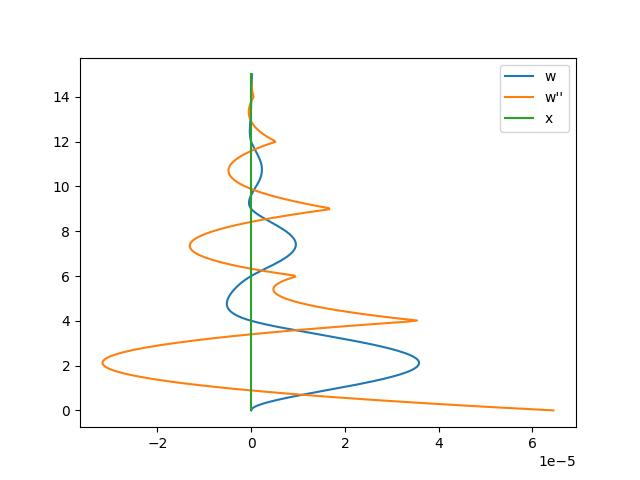
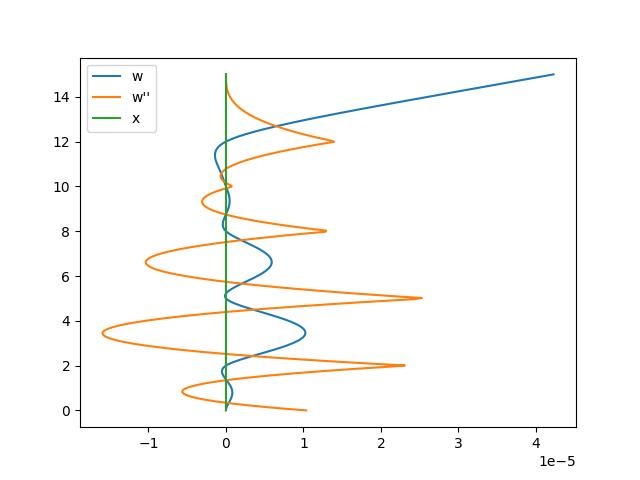
1. adding angle to our calculations 2. monte carlo fix

diff --git a/ground_anchoring_controller/frontend/src/components/Table1d.js b/ground_anchoring_controller/frontend/src/components/Table1d.js
@@ -12,6 +12,7 @@ let highMoment=0, alpha =0.5, beta = 1.0 , gamma=1.0;
 const Table1d = (acnhors_data) => {
     const height2 = localStorage.getItem("height");
     const [quality,setQuality] = useState(0);
+    const [moment,setMoment] = useState(0);
     let n = localStorage.getItem("numbersOfAnchors");
     const label = { inputProps: { 'aria-label': 'Switch demo' } };
     const [switchButton,setSwitchButton] = useState(true);
@@ -42,6 +43,7 @@ const Table1d = (acnhors_data) => {
       .then((response) => response.json())
       .then((data) => {
           highMoment = Math.abs(data);
+          setMoment(highMoment)
           calcQulaity();
           fetchImage();
       });
@@ -194,7 +196,7 @@ const Table1d = (acnhors_data) => {
               {/* <h4 style={{color:"white"}}>Quality formula </h4> */}
               <h4 style={{color:"white"}}>Quality : α * e<sup style={{color:"white"}}>-β*n</sup>+(1-α)* e<sup style={{color:"white"}}>-γ*m</sup> </h4>
               <h6 style={{paddingTop:"10px",color:"white"}}>n : number of anchors</h6>
-              <h6 style={{color:"white"}}>m : the highest moment</h6>  
+              <h6 style={{color:"white"}}>m : the highest moment - {moment}</h6>  
                   <InputGroup className="mb-3" style={{paddingTop:"10px",width:"200px"}}>
                       <InputGroup.Text id="basic-addon2">α :</InputGroup.Text>
                       <Form.Control  placeholder="0.5"  aria-label="numbers" aria-describedby="basic-addon1" onChange={handleChangeA} />

diff --git a/ground_anchoring_controller/api/euller_beam.py b/ground_anchoring_controller/api/euller_beam.py
@@ -1,17 +1,19 @@
 from __future__ import division  #to enable normal floating division
 import numpy as np
+import math
 import matplotlib.pyplot as plt
 from scipy.optimize import curve_fit
 
 class clBeam():
-	def __init__(self,h):
+	def __init__(self, h, deg):
 		# Beam parameters
 		# Exact solution, E*Iy = const, y1 = y', y0 = y, 
 		#w = 10  #beam cross sec width (m) - not in use
 		self.h = h   # height (m)
+		self.deg = deg   # height (m)
 		self.I = 104   #cross sec moment of inertia (mm^4)
 		self.E = 30   #steel elast modul (N/mm^2)
-		self.F = 9.8*1000   #point load (N)
+		self.F = 9.8*1000*math.sin(math.radians(deg))  #point load (N)
 		self.E_Ic = (self.I * self.E)*(1000**2)
 		
 	def w(self, x, c_1, c_2, c_3, c_4):
@@ -167,11 +169,10 @@ class clBeam():
 						vv_A[u][k0+k+4] = -self.aa2(x,k)
 					v_b[u] = 0
 		
-		print(str(v_b))
-		print(str(vv_A))
+
 		vc = np.linalg.solve(vv_A, v_b)
-		print(str(vc))
 		return vc
+
 	def nn_make(self,v_x_anchor):
 		self.bTheLastAnchor_h=False
 		n = len(v_x_anchor)
@@ -230,46 +231,33 @@ class clBeam():
 # plt.show()
 
 
-def start_euller_beam(h,anchors):
-    print("ANDHORS : ",anchors ,"okkkkk")
+def start_euller_beam(h, deg, anchors, save_plot=True):
     anchors.sort()
-    for acnhor in anchors:
-        print(acnhor)
-    Beam=clBeam(h)
+    Beam=clBeam(h, deg)
     x_data,y_data,y2_data=Beam.xy_get(anchors)
-    max1 = find_the_high_moment(h,y2_data)
-    min1 = find_the_low_moment(h,y2_data)
-    plt.close()
-    plt.plot(y_data,x_data, label = "w")
-    plt.plot(y2_data,x_data, label = "w''")
-    plt.plot([0,0],[0,h], label = "x")
-    plt.legend()
-    
-    #plt.show()
-    plt.savefig("plot.jpg")
+    max1 = find_the_high_moment(y2_data)
+    print(deg)
+    if save_plot:
+        plt.close()
+        plt.plot(y_data,x_data, label = "w")
+        plt.plot(y2_data,x_data, label = "w''")
+        plt.plot([0,0],[0,h], label = "x")
+        plt.legend()
+        
+        #plt.show()
+        plt.savefig("plot.jpg")
+
     return max1
     
-def find_the_high_moment(h,y2_data):
+def find_the_high_moment(y2_data):
     max1 = y2_data[0]
-    index = 0
-    for i in range(1,len(y2_data)):
-        if (abs(y2_data[i]) > max1):
-            max1 = abs(y2_data[i])
-            index = i
-    index = round((index/300)*h)
-    print(f'Index of the maximum value is : {index}')
+    
+    for moment in y2_data:
+        if abs(moment) > max1:
+            max1 = abs(moment)
+
     return max1
     
-def find_the_low_moment(h,y2_data):
-    min1 = y2_data[0]
-    index = 0
-    for i in range(1,len(y2_data)):
-        if y2_data[i] < min1:
-            min1 = y2_data[i]
-            index = i
-    index = round((index/300)*h)
-    print(f'Index of the minimum value is : {index}')
-    return min1
     
 
 # start_euller_beam(h=15 ,anchors = [2,4,6,9,14] )

diff --git a/ground_anchoring_controller/api/monteCarlo1d.py b/ground_anchoring_controller/api/monteCarlo1d.py
@@ -9,45 +9,42 @@ from .wallPressure1d import *
 import random
 
 # Creating Roll Anchor Function
-def roll_dice (height ,anchors_1 ):
-    #print( height , width)
-    
+def roll_dice (height ,anchors_1 ):    
     x = 0
     y = random.randint(1, height-1)
 
     # Determining if the anchor is exist
     if(len(anchors_1) > 0):
         for anchor in anchors_1:
-            if(anchor['x'] == x and anchor['y'] == y):
+            if(anchor['x'] == 0 and anchor['y'] == y):
                 return False ,0,0
     return True ,x ,y
 
 
-def createAncorsWithMonteCarlo1d(height ,max_num_of_anchors):
+def createAncorsWithMonteCarlo1d(height, deg, max_num_of_anchors):
     # Inputs & Tracking
     num_simulations = 1000
     anchors = []
-    quality_1 = 0
+    min_moment = 0
     # For loop to run for the number of simulations desired
     for i in range(num_simulations):
         anchors_1 = []
-        num_rolls = [0]
         num_anchor = 0
+
         # Run until the computer has rolled "max_num_of_anchors" times
-        while num_rolls[-1] < max_num_of_anchors:
-            
+        while len(anchors_1) < max_num_of_anchors:
+
             new_anchor,x,y = roll_dice(height ,anchors_1)         
             # Result if the anchors is not exist 
             if new_anchor:
                 anchors_1.append({'id' : num_anchor+1 , 'x' : x , 'y' : y})
                 num_anchor += 1
-                    
-            num_rolls.append(num_rolls[-1] + 1)
 
         # if this simulation give us better quality than take it
-        quality_2 = quality1d(height ,anchors_1)
-        if (quality_2 > quality_1):
-            quality_1 = quality_2 
+        moment = quality1d(height, deg, anchors_1)
+
+        if moment < min_moment or not len(anchors):
+            min_moment = moment 
             anchors = anchors_1.copy()
-            
+
     return anchors 

diff --git a/ground_anchoring_controller/api/wallPressure1d.py b/ground_anchoring_controller/api/wallPressure1d.py
@@ -1,6 +1,7 @@
 from numpy import * 
 from copy import deepcopy
-
+from .euller_beam import *
+# from ground_anchoring_controller.api.euller_beam import *
 
 # presure formula=> P = phg
 p= 997   # water mass density = 997 kg/m³
@@ -67,43 +68,18 @@ def create_best_anchors_for_wall_presure1d(height ):
         y1-=2
         id+=1   
     return anchors
-    
 
 # Done !
 def covert_matrix_presure_to_number1d(wall_presure):
     return sum(wall_presure)
- 
-    
-# Done !
-'''
-    This function take ( p1 =the maxinum presure ,p2 = the minumum presure ,p3 = the current presure) 
-    and calculate the quality between them in this way =>
-    quality = (p1-p3)/(p1-p2)
-    Inputs  => (p1 : number) , (p2 : number) , (p3 : number)
-    Output  => (quality : number)
-'''
-def calculate_quality1d(p1 , p2 , p3):
-    quality = 1- ((p3-p2)/(p1-p2))
-    return quality
-    
 
-# Done !
-def quality1d (height,anchors):
-    # 1
-    #print("1111")
-    p1 = create_mat_wall_presure1d(height)   
-    p1_sum = covert_matrix_presure_to_number1d(p1)
-    
-    
-    # 2
-    #print("2222")
-    best_places_for_anchors = create_best_anchors_for_wall_presure1d(height )
-    p2 = calculate_mat_wall_presure1d(height , deepcopy(p1) ,best_places_for_anchors)
-    p2_sum = covert_matrix_presure_to_number1d(p2)
-    # 3
-    #print("3333")
-    p3 = calculate_mat_wall_presure1d(height, p1 ,anchors)
-    p3_sum = covert_matrix_presure_to_number1d(p3)
-    
-    return calculate_quality1d(p1_sum ,p2_sum ,p3_sum)
+
+def quality1d (height, deg, anchors):
+    anchors_x =[]
+    for anchor in anchors:
+        anchors_x.append(anchor['y'])
+
+    res = start_euller_beam(height, deg, anchors_x, save_plot=False)  
+
+    return res
     

diff --git a/ground_anchoring_controller/api/views.py b/ground_anchoring_controller/api/views.py
@@ -21,6 +21,7 @@ optimizationType = ''
 dimensionalType = ''
 strategyType = ''
 height1=0
+angle1=90
 width1=0
 numberOfAnchors1=0
 quality1=0
@@ -58,10 +59,11 @@ class CreatWallView(APIView):
             width = serializer.data['width']
             angle = serializer.data['angle']
             number_of_anchors = serializer.data['number_of_anchors']
-            global width1, height1 , numberOfAnchors1
+            global width1, height1 , numberOfAnchors1, angle1
             width1 =width 
             height1 = height
             numberOfAnchors1 = number_of_anchors
+            angle1 = angle
             
             host = self.request.session.session_key
             queryset = Wall.objects.filter(host =host)
@@ -142,7 +144,7 @@ class startSimulation(APIView):
   
             #Monte carlo
             if(strategyType == '3'):
-                result  = createAncorsWithMonteCarlo1d(height1,numberOfAnchors1)
+                result  = createAncorsWithMonteCarlo1d(height1, angle1, numberOfAnchors1)
                 anchors1 = result
                 print(result)
                    
@@ -165,7 +167,7 @@ class getHighMoment(APIView):
         anchors2 =[]
         for acnhor in anchors1:
             anchors2.append(acnhor['y'])
-        high_moment = start_euller_beam(height1,anchors2) 
+        high_moment = start_euller_beam(height1, angle1, anchors2) 
         return Response(high_moment, status=status.HTTP_200_OK)
     
 class getImage(APIView):

diff --git a/ground_anchoring_controller/api/monteCarlo.py b/ground_anchoring_controller/api/monteCarlo.py
@@ -31,23 +31,21 @@ def createAncorsWithMonteCarlo(height , width,max_num_of_anchors):
     # For loop to run for the number of simulations desired
     for i in range(num_simulations):
         anchors_1 = []
-        num_rolls = [0]
         num_anchor = 0
+
         # Run until the computer has rolled "max_num_of_anchors" times
-        while num_rolls[-1] < max_num_of_anchors:
-            
-            new_anchor,x,y = roll_dice(height , width,anchors_1) 
-            
+        while len(anchors_1) < max_num_of_anchors:
+
+            new_anchor, x, y = roll_dice(height, width,anchors_1)
+
             # Result if the anchors is not exist 
             if new_anchor:
                 anchors_1.append({'id' : num_anchor+1 , 'x' : x , 'y' : y})
                 num_anchor += 1
-                    
-            num_rolls.append(num_rolls[-1] + 1)
 
         # if this simulation give us better quality than take it
         quality_2 = quality(height , width,anchors_1)
-        if (quality_2 > quality_1):
+        if (quality_2 < quality_1):
             quality_1 = quality_2 
             anchors = anchors_1.copy()
             
